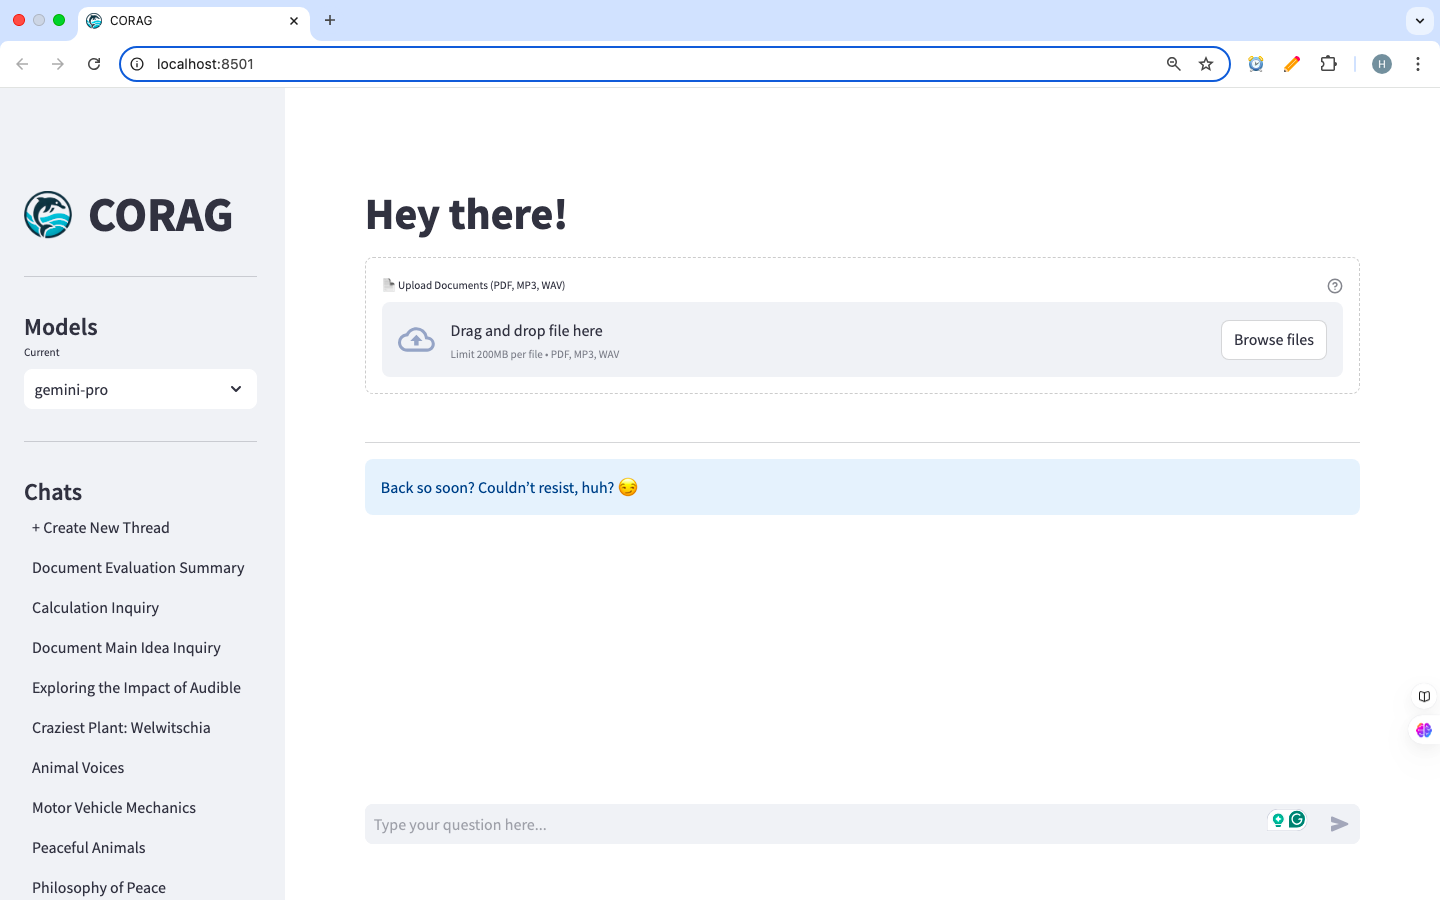
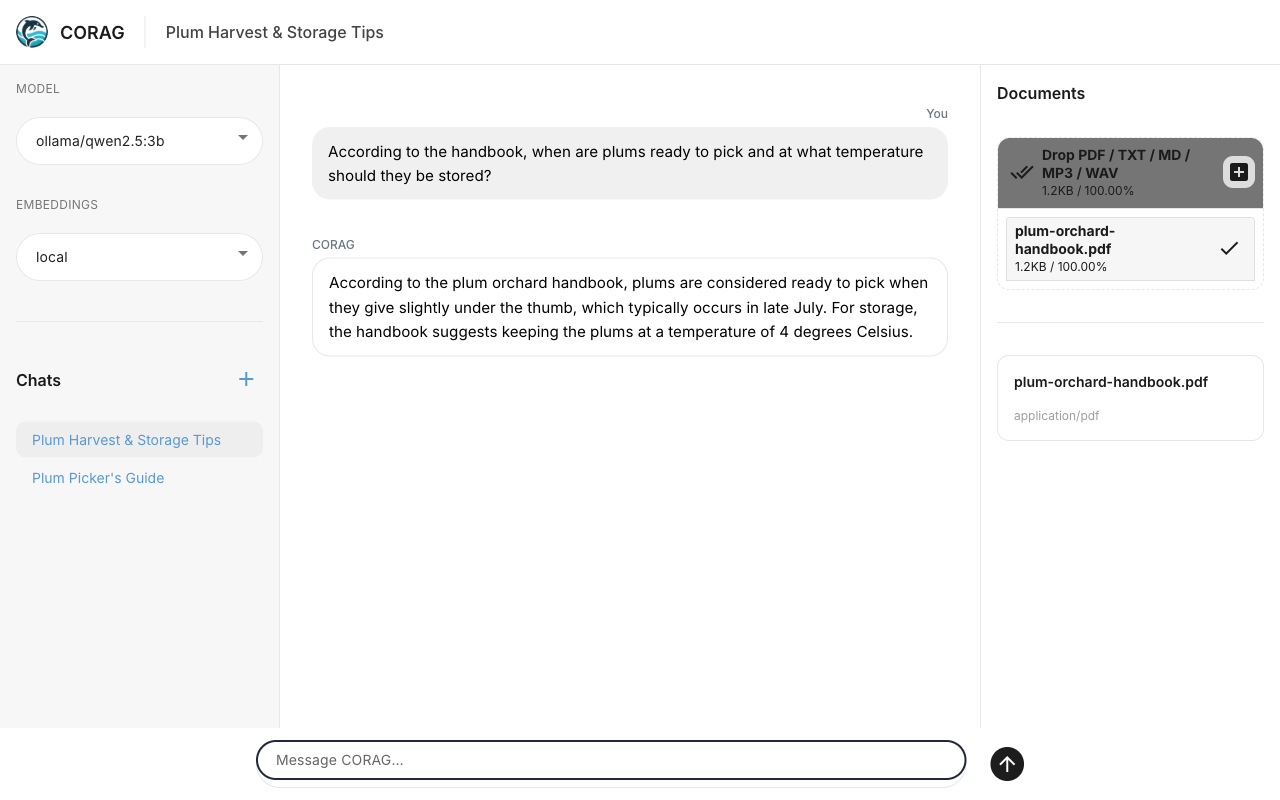
Replace the Streamlit-era screenshot with the current interface
The README screenshot showed an earlier Streamlit version. The new one
is the current NiceGUI app running fully locally: a qwen2.5:3b model
through Ollama, local embeddings, no API key, answering correctly from
an uploaded two-page PDF.

Claude-Session: https://claude.ai/code/session_018Ao1j7cJk6UPfrdmfFczWw

diff --git a/README.md b/README.md
@@ -145,9 +145,9 @@ More detail in [Architecture](docs/architecture.md).
 
 ## Screenshots
 
-<img src="Screenshot.png" alt="Earlier CORAG interface: chat list and model picker on the left, document upload box for PDF, MP3 and WAV, greeting message and question box" width="880">
+<img src="Screenshot.png" alt="CORAG answering a question from an uploaded plum orchard handbook PDF: model picker set to ollama/qwen2.5:3b and local embeddings on the left, the question and an answer citing late July and 4 degrees Celsius in the middle, the PDF in the Documents panel on the right" width="880">
 
-This screenshot is from an earlier Streamlit version of CORAG. The current NiceGUI interface has the same parts in a three-column layout: models, embeddings and chats on the left, the conversation in the middle, documents on the right.
+The current interface, running fully on one computer: a local `qwen2.5:3b` model through Ollama, local embeddings and no API key. The answer comes from the uploaded two-page PDF.
 
 ## FAQ
 
